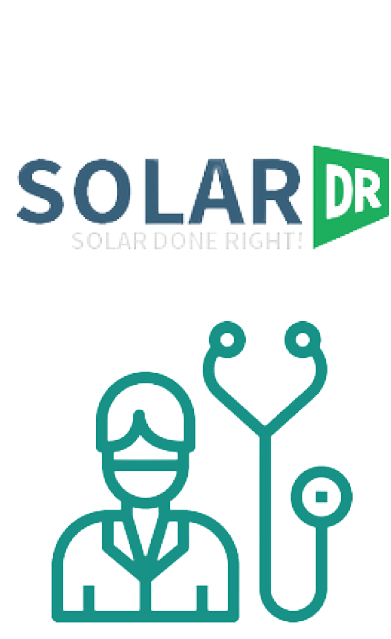
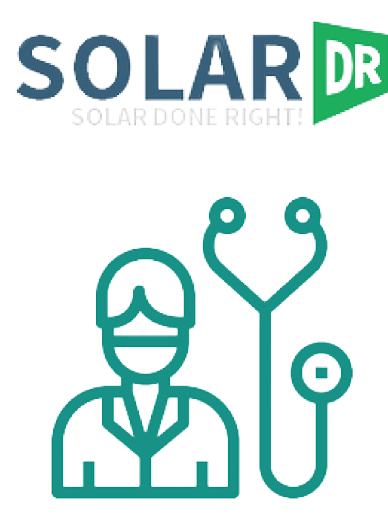
Continue With Add Colors And Crop Who Are We Image

Changed region(s): [[0.0309, 0.0311, 1.0, 0.9961], [0.3402, 0.3735, 0.3711, 0.4047]]

diff --git a/src/pages/index.min.css b/src/pages/index.min.css
@@ -1,1 +1,1 @@
-.home .page-content .ads{background-color:var(--main-color-three);cursor:pointer}.home .page-content .ads .carousel{position:static}.home .page-content .ads .carousel .carousel-caption{position:static;padding:0}.home .page-content .ads .carousel .carousel-caption .ads-content{margin:0;font-size:20px}.home .page-content .introduction .carousel{min-height:inherit;background-color:var(--main-color-five);position:relative}.home .page-content .introduction .carousel .slider-control-icon{color:var(--main-color-one);font-size:35px}.home .page-content .introduction .carousel .carousel-inner{min-height:inherit}.home .page-content .introduction .carousel .carousel-inner .carousel-item{min-height:inherit}.home .page-content .introduction .carousel .carousel-inner .carousel-item .carousel-caption{position:static;padding:0;font-size:30px;color:#FFF;min-height:inherit}.home .page-content .introduction .carousel .carousel-inner .carousel-item .carousel-caption .container{min-height:inherit}.home .page-content .introduction .carousel .carousel-inner .carousel-item .carousel-caption .container .row{min-height:inherit}@media (max-width: 767px){.home .page-content .introduction .carousel .carousel-inner .carousel-item .carousel-caption .container .row .content-box{order:2;padding-top:10px}.home .page-content .introduction .carousel .carousel-inner .carousel-item .carousel-caption .container .row .content-box p{margin-bottom:10px}}.home .page-content .introduction .carousel .carousel-inner .carousel-item .carousel-caption .container .row .slider-content-explain{font-size:19px}.home .page-content .introduction .carousel .carousel-inner .carousel-item .carousel-caption .container .row .slider-content-explain p{font-family:'Lemonada', cursive;line-height:2;margin-bottom:20px}@media (max-width: 767px){.home .page-content .introduction .carousel .carousel-inner .carousel-item .carousel-caption .container .row .slider-content-explain p:first-child.exeption-paragraph-3{line-height:2.4}}@media (min-width: 521px) and (max-width: 767px){.home .page-content .introduction .carousel .carousel-inner .carousel-item .carousel-caption .container .row .slider-content-explain p.exeption-paragraph{line-height:2.5 !important}}.home .page-content .introduction .carousel .carousel-inner .carousel-item .carousel-caption .container .row .slider-content-explain p:last-child{margin-bottom:0}@media (max-width: 767px){.home .page-content .introduction .carousel .carousel-inner .carousel-item .carousel-caption .container .row .slider-content-explain p:last-child.exeption-paragraph{line-height:3}}@media (max-width: 767px){.home .page-content .introduction .carousel .carousel-inner .carousel-item .carousel-caption .container .row .slider-content-explain{font-size:18px}}.home .page-content .introduction .carousel .carousel-inner .carousel-item .carousel-caption .container .row .image-box{text-align:center}.home .page-content .introduction .carousel .carousel-inner .carousel-item .carousel-caption .container .row .image-box .home-paragraph{font-size:28px}@media (max-width: 400px){.home .page-content .introduction .carousel .carousel-inner .carousel-item .carousel-caption .container .row .image-box .home-paragraph{margin-bottom:10px}}@media (max-width: 767px){.home .page-content .introduction .carousel .carousel-inner .carousel-item .carousel-caption .container .row .image-box{text-align:center}.home .page-content .introduction .carousel .carousel-inner .carousel-item .carousel-caption .container .row .image-box.image-box2 p,.home .page-content .introduction .carousel .carousel-inner .carousel-item .carousel-caption .container .row .image-box.image-box3 p{margin:0}}.home .page-content .introduction .carousel .carousel-inner .carousel-item .carousel-caption .container .row .image-box .slider-image{max-width:90%;display:inline-block;margin:0 auto}.home .page-content .start-with-us-btn,.home .page-content .service-request-btn{width:fit-content;background-color:var(--main-color-one);font-weight:bold;font-size:20px}
+.home .page-content .ads{background-color:var(--main-color-three);cursor:pointer}.home .page-content .ads .carousel{position:static}.home .page-content .ads .carousel .carousel-caption{position:static;padding:0}.home .page-content .ads .carousel .carousel-caption .ads-content{margin:0;font-size:20px}.home .page-content .introduction .carousel{min-height:inherit;background-color:var(--main-color-five);position:relative}.home .page-content .introduction .carousel .slider-control-icon{color:var(--main-color-one);font-size:35px}.home .page-content .introduction .carousel .carousel-inner{min-height:inherit}.home .page-content .introduction .carousel .carousel-inner .carousel-item{min-height:inherit}.home .page-content .introduction .carousel .carousel-inner .carousel-item .carousel-caption{position:static;padding:0;font-size:30px;color:#FFF;min-height:inherit}.home .page-content .introduction .carousel .carousel-inner .carousel-item .carousel-caption .container{min-height:inherit}.home .page-content .introduction .carousel .carousel-inner .carousel-item .carousel-caption .container .row{min-height:inherit}@media (max-width: 767px){.home .page-content .introduction .carousel .carousel-inner .carousel-item .carousel-caption .container .row .content-box{order:2;padding-top:10px}.home .page-content .introduction .carousel .carousel-inner .carousel-item .carousel-caption .container .row .content-box p{margin-bottom:10px}}.home .page-content .introduction .carousel .carousel-inner .carousel-item .carousel-caption .container .row .slider-content-explain{font-size:19px}.home .page-content .introduction .carousel .carousel-inner .carousel-item .carousel-caption .container .row .slider-content-explain p{font-family:'Lemonada', cursive;line-height:2;margin-bottom:20px}@media (max-width: 767px){.home .page-content .introduction .carousel .carousel-inner .carousel-item .carousel-caption .container .row .slider-content-explain p:first-child.exeption-paragraph-3{line-height:2.4}}@media (min-width: 521px) and (max-width: 767px){.home .page-content .introduction .carousel .carousel-inner .carousel-item .carousel-caption .container .row .slider-content-explain p.exeption-paragraph{line-height:2.5 !important}}.home .page-content .introduction .carousel .carousel-inner .carousel-item .carousel-caption .container .row .slider-content-explain p:last-child{margin-bottom:0}@media (max-width: 767px){.home .page-content .introduction .carousel .carousel-inner .carousel-item .carousel-caption .container .row .slider-content-explain p:last-child.exeption-paragraph{line-height:3}}@media (max-width: 767px){.home .page-content .introduction .carousel .carousel-inner .carousel-item .carousel-caption .container .row .slider-content-explain{font-size:18px}}.home .page-content .introduction .carousel .carousel-inner .carousel-item .carousel-caption .container .row .image-box{text-align:center}.home .page-content .introduction .carousel .carousel-inner .carousel-item .carousel-caption .container .row .image-box .home-paragraph{font-size:28px}@media (max-width: 400px){.home .page-content .introduction .carousel .carousel-inner .carousel-item .carousel-caption .container .row .image-box .home-paragraph{margin-bottom:10px}}@media (max-width: 767px){.home .page-content .introduction .carousel .carousel-inner .carousel-item .carousel-caption .container .row .image-box{text-align:center}.home .page-content .introduction .carousel .carousel-inner .carousel-item .carousel-caption .container .row .image-box.image-box2 p,.home .page-content .introduction .carousel .carousel-inner .carousel-item .carousel-caption .container .row .image-box.image-box3 p{margin:0}}.home .page-content .introduction .carousel .carousel-inner .carousel-item .carousel-caption .container .row .image-box .slider-image{max-width:90%;display:inline-block;margin:0 auto}.home .page-content .start-with-us-btn,.home .page-content .service-request-btn{width:fit-content;background-color:var(--main-color-one);font-weight:bold;font-size:20px;border:1px solid #000}

diff --git a/src/Scss/index.min.css b/src/Scss/index.min.css
@@ -1,1 +1,1 @@
-*{font-family:'Changa', sans-serif}:root{--main-color-one:#ffcb69;--main-color-two:#707070;--main-color-three:#f1dca7;--main-color-four:#78e3c8;--main-color-five:#d08c60;--main-color-six:#28e4a5}ul{padding:0;margin:0;list-style:none}a{color:#FFF;text-decoration:none}#__next{height:inherit}#__next>div{height:inherit}::-webkit-scrollbar{background-color:transparent;width:15px}::-webkit-scrollbar-thumb{background-color:var(--main-color-two)}input,select,textarea{border-radius:15px !important}.password-field-box,.confirm-password-field-box{position:relative}.password-field-box .icon-box,.confirm-password-field-box .icon-box{position:absolute;left:15px;top:50%;transform:translateY(-50%)}.password-field-box .icon-box .icon,.confirm-password-field-box .icon-box .icon{font-size:30px;cursor:pointer}.shared-pages-with-styles .page-content .container{min-height:inherit}.shared-pages-with-styles .page-content .container .row{min-height:inherit;background-color:var(--main-color-four);border-radius:30px}@media (max-width: 767px){.shared-pages-with-styles .page-content .container .row{padding:20px}.shared-pages-with-styles .page-content .container .row>div:first-child{order:2}}.shared-pages-with-styles .page-content .container .row .image-box .page-img{max-width:100%;height:100%}.shared-pages-with-styles .page-content .container .row .page-content-explain{text-align:justify;line-height:2;font-size:20px;margin-bottom:0;height:400px;overflow-y:auto}@media (max-width: 767px){.shared-pages-with-styles .page-content .container .row .page-content-explain{text-align:center;font-size:18px;padding:0 2rem !important}}.shared-our-services-with-styles .page-content{background-size:100% 100%}@media (max-width: 767px){.shared-our-services-with-styles .page-content{background:var(--main-color-five) !important}}@media (max-width: 767px){.shared-our-services-with-styles .page-content .row{gap:30px}}.shared-our-services-with-styles .page-content .row>div:first-of-type{padding-left:45px;height:258px !important}@media (max-width: 767px){.shared-our-services-with-styles .page-content .row>div:first-of-type{padding-left:12px}}.shared-our-services-with-styles .page-content .row>div:last-of-type{display:none}.shared-our-services-with-styles .page-content .row .page-title{font-family:'Lemonada', cursive}@media (max-width: 767px){.shared-our-services-with-styles .page-content .row .page-title{margin:15px 0 25px 0 !important}}.shared-our-services-with-styles .page-content .row .page-content-explain{text-align:center;line-height:2;font-size:21px;margin-bottom:0;background-color:var(--main-color-six);border-radius:20px;height:inherit;display:flex;align-items:center}@media (max-width: 520px){.shared-our-services-with-styles .page-content .row .page-content-explain{font-size:4vw}}.shared-our-services-with-styles .page-content .row .image-in-responsive{max-width:100%}@media (max-width: 767px){.shared-our-services-with-styles .page-content .row>div:first-of-type{order:2}.shared-our-services-with-styles .page-content .row>div:last-of-type{display:block}}
+*{font-family:'Changa', sans-serif}:root{--main-color-one:#ffcb69;--main-color-two:#707070;--main-color-three:#f1dca7;--main-color-four:#78e3c8;--main-color-five:#d08c60;--main-color-six:#28e4a5}ul{padding:0;margin:0;list-style:none}a{color:#FFF;text-decoration:none}#__next{height:inherit}#__next>div{height:inherit}::-webkit-scrollbar{background-color:transparent;width:15px}::-webkit-scrollbar-thumb{background-color:var(--main-color-two)}input,select,textarea{border-radius:15px !important;border:1px solid #AAA !important}.password-field-box,.confirm-password-field-box{position:relative}.password-field-box .icon-box,.confirm-password-field-box .icon-box{position:absolute;left:15px;top:50%;transform:translateY(-50%)}.password-field-box .icon-box .icon,.confirm-password-field-box .icon-box .icon{font-size:30px;cursor:pointer}.shared-pages-with-styles .page-content .container{min-height:inherit}.shared-pages-with-styles .page-content .container .row{min-height:inherit}.shared-pages-with-styles .page-content .container .row>div:first-child{background-color:var(--main-color-three);border-radius:30px}@media (max-width: 767px){.shared-pages-with-styles .page-content .container .row{padding:20px}.shared-pages-with-styles .page-content .container .row>div:first-child{order:2}}.shared-pages-with-styles .page-content .container .row .image-box .page-img{max-width:100%;height:100%}.shared-pages-with-styles .page-content .container .row .page-content-explain{text-align:justify;line-height:2;font-size:20px;margin-bottom:0;height:400px;overflow-y:auto}@media (max-width: 767px){.shared-pages-with-styles .page-content .container .row .page-content-explain{text-align:center;font-size:18px;padding:0 2rem !important}}.shared-our-services-with-styles .page-content{background-size:100% 100%}@media (max-width: 767px){.shared-our-services-with-styles .page-content{background:var(--main-color-five) !important}}@media (max-width: 767px){.shared-our-services-with-styles .page-content .row{gap:30px}}.shared-our-services-with-styles .page-content .row>div:first-of-type{padding-left:45px;height:258px !important}@media (max-width: 767px){.shared-our-services-with-styles .page-content .row>div:first-of-type{padding-left:12px}}.shared-our-services-with-styles .page-content .row>div:last-of-type{display:none}.shared-our-services-with-styles .page-content .row .page-title{font-family:'Lemonada', cursive}@media (max-width: 767px){.shared-our-services-with-styles .page-content .row .page-title{margin:15px 0 25px 0 !important}}.shared-our-services-with-styles .page-content .row .page-content-explain{text-align:center;line-height:2;font-size:21px;margin-bottom:0;background-color:var(--main-color-six);border-radius:20px;height:inherit;display:flex;align-items:center}@media (max-width: 520px){.shared-our-services-with-styles .page-content .row .page-content-explain{font-size:4vw}}.shared-our-services-with-styles .page-content .row .image-in-responsive{max-width:100%}@media (max-width: 767px){.shared-our-services-with-styles .page-content .row>div:first-of-type{order:2}.shared-our-services-with-styles .page-content .row>div:last-of-type{display:block}}

diff --git a/src/pages/contact-us/index.jsx b/src/pages/contact-us/index.jsx
@@ -29,35 +29,36 @@ export default function ContactUs() {
             <section className="page-content p-4">
                 {/* بداية مكون الحاوية من البوتستراب */}
                 <div className="container">
+                    <h1 className='text-center'>اتصل بنا ؟</h1>
                     {/* بداية مكون الشبكة من البوتستراب */}
                     <div className="row align-items-center">
                         {/* بداية مكون العمود */}
-                        <div className="col-md-6">
+                        <div className="col-md-6 p-4">
                             <div className="contact-us-content-box">
-                                <p className='how-to-contact-us-explain pe-4 ps-4 mb-5'>
+                                <p className='how-to-contact-us-explain ps-4'>
                                     نهتم بشكل كبير في النمو والتطور والريادة ولنكون الأفضل دائماً نحن بحاجة أن نتعلم منك ما هي الآراء والأفكار أو المفاهيم التي قد تجعلك في راحة أكثر لذا أخبرنا كيف من خلال التواصل معنا.
                                 </p>
-                                <p className='how-to-contact-us-explain pe-4 ps-4 mb-5'>
+                                <p className='how-to-contact-us-explain ps-4 mb-5'>
                                     و كذلك التعليقات والشكاوي ستظل دائمًا مرحبا بها في دكتور سولار
                                 </p>
-                                <p className='how-to-contact-us-explain pe-4 ps-4'>
+                                <p className='how-to-contact-us-explain ps-4'>
                                     كلنا آذان صاغية على :
                                 </p>
-                                <p className='how-to-contact-us-explain pe-4 ps-4 mb-4'>
+                                <p className='how-to-contact-us-explain ps-4'>
                                     E-mail:
                                     <a href="mailto:mrfix.help@gmail.com" className='email-link'> dr.solar.help@gmail.com</a>
                                 </p>
-                                <p className='how-to-contact-us-explain pe-4 ps-4'>
+                                <p className='how-to-contact-us-explain ps-4'>
                                     كافة ما يتعلق بالموقع ومشاكل التسجيل والإشتراك والطلبات عبر الموقع  والاستفسارات حول الاشتراك وكذلك الشكاوي
                                 </p>
-                                <p className='how-to-contact-us-explain pe-4 ps-4 mb-4'>
+                                <p className='how-to-contact-us-explain ps-4 mb-4'>
                                     Mobile/whatsapp: 09444444444444
                                     Mobile/whatsapp: 09444444444444
                                 </p>
-                                <p className='how-to-contact-us-explain pe-4 ps-4'>
+                                <p className='how-to-contact-us-explain ps-4'>
                                     كافة ما يتعلق بالمهام المتفق عليها بعد طلب الخدمة وتعديلها أو إلغائها أو تعديل الوقت أو الاستفسار بتفاصيل تخص إنجاز الخدمة
                                 </p>
-                                <p className='how-to-contact-us-explain pe-4 ps-4 mb-5'>
+                                <p className='how-to-contact-us-explain ps-4 mb-5'>
                                     Mobile/whatsapp: 09444444444444
                                     Mobile/whatsapp: 09444444444444
                                 </p>

diff --git a/src/pages/forget-password/index.jsx b/src/pages/forget-password/index.jsx
@@ -121,7 +121,7 @@ export default function ForgetPassword() {
                         <div className="col-lg-6 p-5">
                             {/* بداية كتابة كود ال jsx لعنصر ال html المسمى forget-password-form */}
                             <form
-                                className="forget-password-form bg-white p-4 pt-5 pb-5 text-center mt-4"
+                                className="forget-password-form text-center mt-4"
                                 onSubmit={forgetPassword}
                             >
                                 <h4 className='mb-5'>نسيت كلمة السر !</h4>
@@ -129,7 +129,7 @@ export default function ForgetPassword() {
                                     type="text"
                                     placeholder="البريد الالكتروني"
                                     // في حالة يوجد خطأ بالإدخال نجعل الحواف بلون أحمر
-                                    className={`form-control p-3 ${errors["email"] ? "border border-danger mb-2" : "mb-5"}`}
+                                    className={`form-control p-3 ${errors["email"] ? "border border-danger mb-2" : "mb-4"}`}
                                     onChange={(e) => setEmail(e.target.value.trim())}
                                 />
                                 {/* بداية رسالة الخطأ بالإدخال للمُدخل المحدد */}
@@ -137,7 +137,7 @@ export default function ForgetPassword() {
                                 {/* نهاية رسالة الخطأ بالإدخال للمُدخل المحدد */}
                                 {/* في حالة لم يكن لدينا حالة التحقق في الانتظار ولا يوجد أي خطأ نظهر المكون التالي */}
                                 {!isWaitCheckStatus && !errMsg && <button type='submit' className='btn forget-password-btn w-100 p-3'>إرسال</button>}
-                                <p className='text-danger mt-4 mb-0 note'>تنويه: في حال لم يكن لديك إيميل يرجى التواصل على رقم الواتس
+                                <p className='mt-4 mb-0 note'>تنويه: في حال لم يكن لديك إيميل يرجى التواصل على رقم الواتس
                                     09444444444444444444
                                 </p>
                                 {/* في حالة كان لدينا حالة التحقق في الانتظار ولا يوجد أي خطأ نظهر المكون التالي */}

diff --git a/src/pages/forget-password/index.min.css b/src/pages/forget-password/index.min.css
@@ -1,1 +1,1 @@
-.forget-password .page-content .container{min-height:inherit}.forget-password .page-content .container .row{min-height:inherit}@media (max-width: 767px){.forget-password .page-content .container .row>div:first-child{padding:0 !important}}@media (max-width: 991px){.forget-password .page-content .container .row>div:first-child{order:2;padding-top:0 !important}.forget-password .page-content .container .row>div:last-child{text-align:center}}.forget-password .page-content .container .row .forget-password-form{box-shadow:1px 1px 10px #FFF;border-radius:15px}.forget-password .page-content .container .row .forget-password-form .forget-password-btn,.forget-password .page-content .container .row .forget-password-form .wait-check-btn{background-color:var(--main-color-one);color:#FFF}.forget-password .page-content .container .row .forget-password-form .note{text-align:justify;line-height:2.2;font-size:18px}.forget-password .page-content .container .row .forget-password-img{max-width:100%;height:100%}
+.forget-password .page-content .container{min-height:inherit}.forget-password .page-content .container .row{min-height:inherit}@media (max-width: 767px){.forget-password .page-content .container .row>div:first-child{padding:0 !important}}@media (max-width: 991px){.forget-password .page-content .container .row>div:first-child{order:2;padding-top:0 !important}.forget-password .page-content .container .row>div:last-child{text-align:center}}.forget-password .page-content .container .row .forget-password-form .forget-password-btn,.forget-password .page-content .container .row .forget-password-form .wait-check-btn{background-color:var(--main-color-one);border:1px solid #000}.forget-password .page-content .container .row .forget-password-form .note{text-align:justify;line-height:2.2;font-size:18px}.forget-password .page-content .container .row .forget-password-img{max-width:100%;height:100%}

diff --git a/src/pages/service-request/index.min.css b/src/pages/service-request/index.min.css
@@ -1,1 +1,1 @@
-.service-request .page-content{background-color:var(--main-color-five)}.service-request .page-content .container{min-height:inherit}.service-request .page-content .container .service-request-form .file-box{height:58px}.service-request .page-content .container .service-request-form .file-box .file-label{cursor:pointer}.service-request .page-content .container .service-request-form .file-box .file-label .upload-file-icon{font-size:23px}.service-request .page-content .container .service-request-form .file-box input[type="file"]{visibility:hidden}.service-request .page-content .container .service-request-form textarea{resize:none;height:calc(116px + 1.5rem)}.service-request .page-content .container .service-request-form .service-request-btn,.service-request .page-content .container .service-request-form .wait-requesting-btn{background-color:var(--main-color-one);color:#FFF}
+.service-request .page-content{background-color:var(--main-color-three)}.service-request .page-content .container{min-height:inherit}.service-request .page-content .container .service-request-form .file-box{height:58px}.service-request .page-content .container .service-request-form .file-box .file-label{cursor:pointer}.service-request .page-content .container .service-request-form .file-box .file-label .upload-file-icon{font-size:23px}.service-request .page-content .container .service-request-form .file-box input[type="file"]{visibility:hidden}.service-request .page-content .container .service-request-form textarea{resize:none;height:calc(116px + 1.5rem)}.service-request .page-content .container .service-request-form .service-request-btn,.service-request .page-content .container .service-request-form .wait-requesting-btn{background-color:var(--main-color-one);border:1px solid #000}

diff --git a/src/components/Header/index.min.css b/src/components/Header/index.min.css
@@ -1,1 +1,1 @@
-.page-header{background-color:var(--main-color-one);border-bottom:4px solid var(--main-color-two)}.page-header .outline-menu-icon,.page-header .outline-menu-close-icon{font-size:33px;cursor:pointer}.page-header .navbar .navbar-toggler{border:2px solid var(--main-color-three);color:var(--main-color-three);font-weight:bold}@media (max-width: 991px){.page-header .navbar .collapse{order:3}}@media (max-width: 991px){.page-header .navbar .logo-box{order:2}}.page-header .navbar .navbar-nav .nav-item .nav-link{font-size:18px;color:#000}.page-header .navbar .navbar-nav .nav-item .nav-link:hover{background-color:#000;color:#FFF;border-radius:5px}@media (max-width: 991px){.page-header .navbar .navbar-nav .nav-item .nav-link{text-align:center}.page-header .navbar .navbar-nav .nav-item .nav-link.logout-btn{margin:10px auto;padding-left:10px;padding-right:10px}}
+.page-header{background-color:var(--main-color-one);border-bottom:4px solid #444}.page-header .outline-menu-icon,.page-header .outline-menu-close-icon{font-size:33px;cursor:pointer}.page-header .navbar .navbar-toggler{border:2px solid var(--main-color-three);color:var(--main-color-three);font-weight:bold}@media (max-width: 991px){.page-header .navbar .collapse{order:3}}@media (max-width: 991px){.page-header .navbar .logo-box{order:2}}.page-header .navbar .navbar-nav .nav-item .nav-link{font-size:18px;color:#000}.page-header .navbar .navbar-nav .nav-item .nav-link:hover{background-color:#000;color:#FFF;border-radius:5px}@media (max-width: 991px){.page-header .navbar .navbar-nav .nav-item .nav-link{text-align:center}.page-header .navbar .navbar-nav .nav-item .nav-link.logout-btn{margin:10px auto;padding-left:10px;padding-right:10px}}

diff --git a/src/pages/sign-up/index.min.css b/src/pages/sign-up/index.min.css
@@ -1,1 +1,1 @@
-.sign-up .page-content{background-color:var(--main-color-five)}.sign-up .page-content .container{min-height:inherit}.sign-up .page-content .container .sign-up-form textarea{resize:none}.sign-up .page-content .container .sign-up-form .address{height:calc(116px + 1.5rem)}.sign-up .page-content .container .sign-up-form .sign-up-btn,.sign-up .page-content .container .sign-up-form .wait-sign-up-btn{background-color:var(--main-color-one);color:#FFF}.sign-up .popup-box{position:fixed;top:0;left:0;width:100%;height:100%;backdrop-filter:blur(2px)}.sign-up .popup-box .popup{position:absolute;top:50%;left:50%;width:50%;height:50%;background:#FFF;transform:translate(-50%, -50%);border-radius:10px;border:2px solid var(--main-color-one)}@media (max-width: 767px){.sign-up .popup-box .popup{width:90%}}
+.sign-up .page-content{background-color:var(--main-color-three)}.sign-up .page-content .container{min-height:inherit}.sign-up .page-content .container .sign-up-form textarea{resize:none}.sign-up .page-content .container .sign-up-form .address{height:calc(116px + 1.5rem)}.sign-up .page-content .container .sign-up-form .sign-up-btn,.sign-up .page-content .container .sign-up-form .wait-sign-up-btn{background-color:var(--main-color-one);border:1px solid #000}.sign-up .popup-box{position:fixed;top:0;left:0;width:100%;height:100%;backdrop-filter:blur(2px)}.sign-up .popup-box .popup{position:absolute;top:50%;left:50%;width:50%;height:50%;background:#FFF;transform:translate(-50%, -50%);border-radius:10px;border:2px solid var(--main-color-one)}@media (max-width: 767px){.sign-up .popup-box .popup{width:90%}}

diff --git a/src/pages/reset-password/index.min.css b/src/pages/reset-password/index.min.css
@@ -1,1 +1,1 @@
-.reset-password .page-content .container{min-height:inherit}.reset-password .page-content .container .row{min-height:inherit}@media (max-width: 767px){.reset-password .page-content .container .row .reset-password-form-box{padding:0 !important}}@media (min-width: 768px) and (max-width: 991px){.reset-password .page-content .container .row .reset-password-form-box{padding:30px !important}}.reset-password .page-content .container .row .reset-password-form{box-shadow:1px 1px 10px #FFF;border-radius:15px}.reset-password .page-content .container .row .reset-password-form .reset-password-btn,.reset-password .page-content .container .row .reset-password-form .wait-reset-password-btn{background-color:var(--main-color-one);color:#FFF}.reset-password .page-content .container .row .reset-password-img{max-width:100%;height:100%}
+.reset-password .page-content .container{min-height:inherit}.reset-password .page-content .container .row{min-height:inherit}@media (max-width: 767px){.reset-password .page-content .container .row .reset-password-form-box{padding:0 !important}}@media (min-width: 768px) and (max-width: 991px){.reset-password .page-content .container .row .reset-password-form-box{padding:30px !important}}.reset-password .page-content .container .row .reset-password-form .reset-password-btn,.reset-password .page-content .container .row .reset-password-form .wait-reset-password-btn{background-color:var(--main-color-one);font-weight:bold;border:1px solid #000}.reset-password .page-content .container .row .reset-password-img{max-width:100%;height:100%}

diff --git a/src/pages/login/index.min.css b/src/pages/login/index.min.css
@@ -1,1 +1,1 @@
-.login .page-content .container{min-height:inherit}.login .page-content .container .row{min-height:inherit}@media (max-width: 767px){.login .page-content .container .row>div:first-child{padding:0 !important}}@media (max-width: 991px){.login .page-content .container .row>div:first-child{order:2;padding-top:0 !important}.login .page-content .container .row>div:last-child{text-align:center}}.login .page-content .container .row .login-form{box-shadow:1px 1px 10px #FFF;border-radius:20px}.login .page-content .container .row .login-form .login-btn,.login .page-content .container .row .login-form .wait-login-btn{background-color:var(--main-color-one);color:#FFF}.login .page-content .container .row .login-img{max-width:100%;height:100%}
+.login .page-content .container{min-height:inherit}.login .page-content .container .row{min-height:inherit}@media (max-width: 767px){.login .page-content .container .row>div:first-child{padding:0 !important}}@media (max-width: 991px){.login .page-content .container .row>div:first-child{order:2;padding-top:0 !important}.login .page-content .container .row>div:last-child{text-align:center}}.login .page-content .container .row .login-form{border-radius:20px}.login .page-content .container .row .login-form .login-btn,.login .page-content .container .row .login-form .wait-login-btn{background-color:var(--main-color-one);font-weight:bold;border:1px solid #000}.login .page-content .container .row .login-img{max-width:100%;height:100%}

diff --git a/src/pages/index.jsx b/src/pages/index.jsx
@@ -142,12 +142,12 @@ export default function Home({ result }) {
           {/* نهاية كتابة كود ال jsx عنصر السلايدر */}
           {/* بداية كتابة كود ال jsx عنصر الرابط الخاص بصفحة إنشاء حساب */}
           {/* نعرضه في حالة لم يكن يوجد معرّف للمستخدم */}
-          {!userId && <Link href="/sign-up" className='d-block btn start-with-us-btn mt-3 mx-auto pt-2 pe-5 ps-5'>
+          {!userId && <Link href="/sign-up" className='d-block btn start-with-us-btn mt-3 mx-auto pt-3 pb-3 pe-5 ps-5'>
             <span>اشترك الآن</span>
           </Link>}
           {/* نهاية كتابة كود ال jsx عنصر الرابط الخاص بصفحة إنشاء حساب */}
           {/* بداية كتابة كود ال jsx عنصر الرابط الخاص بصفحة طلب خدمة */}
-          {userId && <Link className='d-block btn service-request-btn mt-3 mx-auto pt-2 pe-5 ps-5' href="/service-request">
+          {userId && <Link className='d-block btn service-request-btn mt-3 mx-auto pt-3 pb-3' href="/service-request">
             <span className='ms-2'>طلب الخدمة ( الاشتراك )</span>
           </Link>}
           {/* نهاية كتابة كود ال jsx عنصر الرابط الخاص بصفحة طلب خدمة */}

diff --git a/src/pages/who-are-we/index.jsx b/src/pages/who-are-we/index.jsx
@@ -29,11 +29,12 @@ export default function WhoAreWe() {
             <section className="page-content p-4">
                 {/* بداية مكون الحاوية من البوتستراب */}
                 <div className="container">
+                    <h1 className='text-center'>من نحن ؟</h1>
                     {/* بداية مكون الشبكة من البوتستراب */}
                     <div className="row align-items-center">
                         {/* بداية مكون العمود */}
-                        <div className="col-md-6">
-                            <p className='who-are-we-explain page-content-explain pe-4 ps-4'>
+                        <div className="col-md-6 p-4">
+                            <p className='who-are-we-explain page-content-explain ps-4'>
                                 من خلال دكتور سولار نمنح مفهوم آخر وطريقة جديدة للعناية بالطاقة البديلة، هدفنا الإرتباط بعملائنا، ودائمًا نحو الأفضل لجعل حياتهم أسهل في إدارتها
                                 <br />
                                 <br />
